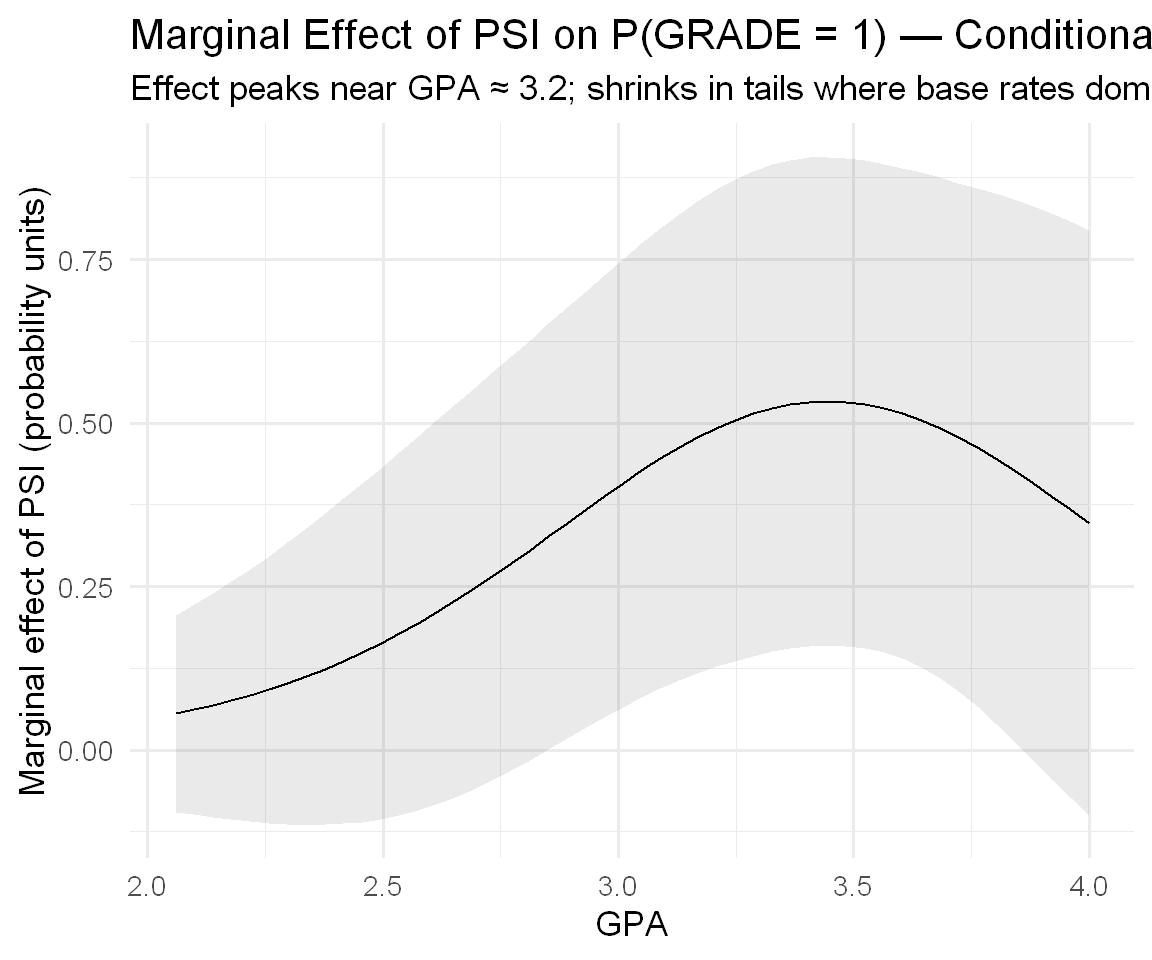
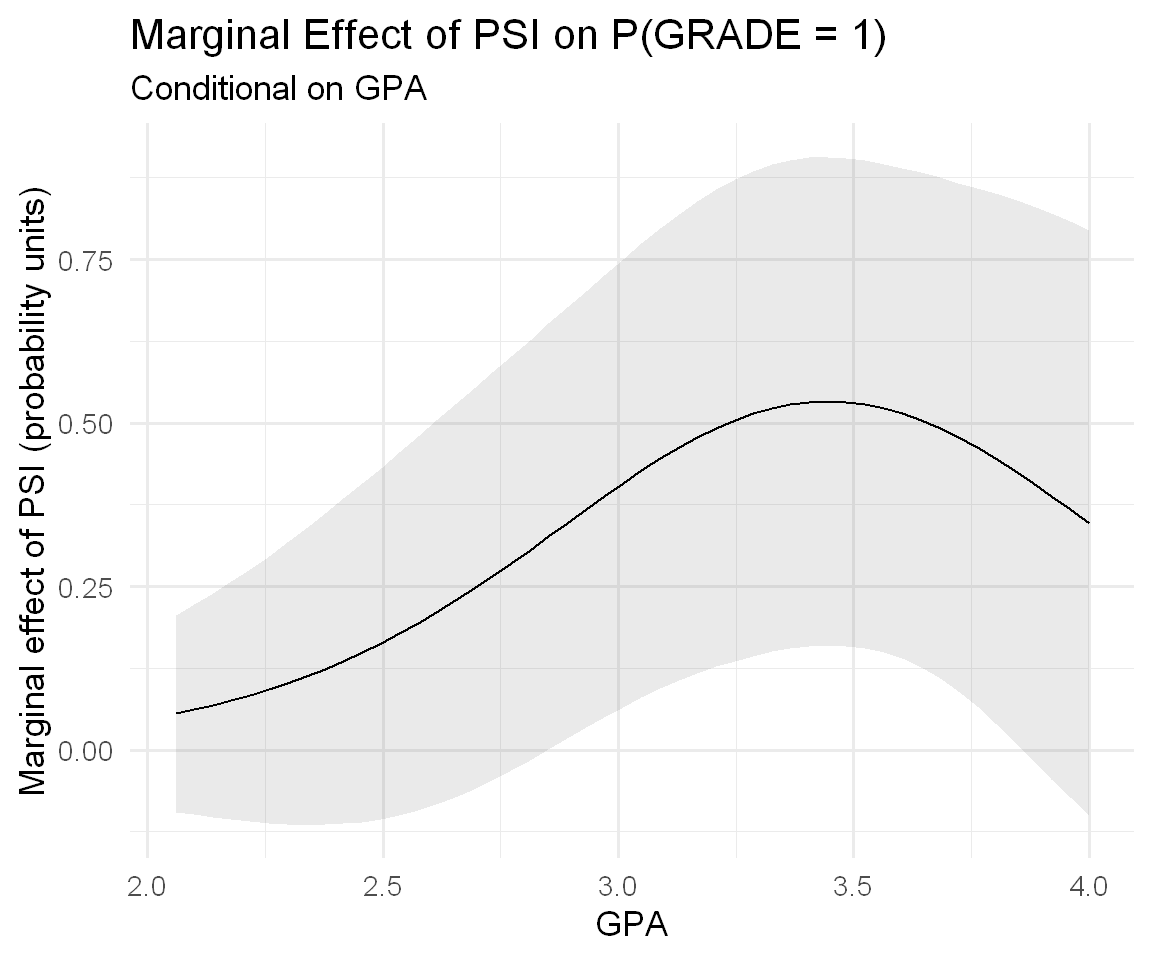
a

Changed region(s): [[0.4688, 0.0, 1.0, 0.125], [0.125, 0.0625, 0.4688, 0.125]]

diff --git a/NYU_1102/Lecture08/DiscreteChoice.html b/NYU_1102/Lecture08/DiscreteChoice.html
@@ -463,8 +463,8 @@ window.Quarto = {
 
     <script>
 
-      function styleCell_brjj7cfkf87tauzl2x6s(i, j, css_id) {
-          var table = document.getElementById("tinytable_brjj7cfkf87tauzl2x6s");
+      function styleCell_hrk189xdnufeh0znnkez(i, j, css_id) {
+          var table = document.getElementById("tinytable_hrk189xdnufeh0znnkez");
           var cell = table.rows[i]?.cells[j];  // Safe navigation to avoid errors
           if (cell) {
               console.log(`Styling cell at (${i}, ${j}) with class ${css_id}`);
@@ -474,7 +474,7 @@ window.Quarto = {
           }
       }
       function insertSpanRow(i, colspan, content) {
-        var table = document.getElementById('tinytable_brjj7cfkf87tauzl2x6s');
+        var table = document.getElementById('tinytable_hrk189xdnufeh0znnkez');
         var newRow = table.insertRow(i);
         var newCell = newRow.insertCell(0);
         newCell.setAttribute("colspan", colspan);
@@ -482,8 +482,8 @@ window.Quarto = {
         // this may be unsafe, but innerText does not interpret <br>
         newCell.innerHTML = content;
       }
-      function spanCell_brjj7cfkf87tauzl2x6s(i, j, rowspan, colspan) {
-        var table = document.getElementById("tinytable_brjj7cfkf87tauzl2x6s");
+      function spanCell_hrk189xdnufeh0znnkez(i, j, rowspan, colspan) {
+        var table = document.getElementById("tinytable_hrk189xdnufeh0znnkez");
         const targetRow = table.rows[i];
         const targetCell = targetRow.cells[j];
         for (let r = 0; r < rowspan; r++) {
@@ -513,18 +513,18 @@ window.Quarto = {
       window.addEventListener('load', function () {
           var cellsToStyle = [
             // tinytable style arrays after
-          { positions: [ { i: 16, j: 1 },  ], css_id: 'tinytable_css_ww8j5ar0c0c4palkeu3m',}, 
-          { positions: [ { i: 1, j: 1 }, { i: 2, j: 1 }, { i: 3, j: 1 }, { i: 4, j: 1 }, { i: 5, j: 1 }, { i: 6, j: 1 }, { i: 7, j: 1 }, { i: 8, j: 1 }, { i: 9, j: 1 }, { i: 10, j: 1 }, { i: 11, j: 1 }, { i: 12, j: 1 }, { i: 13, j: 1 }, { i: 14, j: 1 }, { i: 15, j: 1 },  ], css_id: 'tinytable_css_95xakwzlcwt0x9gghnq1',}, 
-          { positions: [ { i: 0, j: 1 },  ], css_id: 'tinytable_css_h36z8fgk4s8260jw3r3r',}, 
-          { positions: [ { i: 16, j: 0 },  ], css_id: 'tinytable_css_2hh1ya4nb9zu7c3yoyi9',}, 
-          { positions: [ { i: 1, j: 0 }, { i: 2, j: 0 }, { i: 3, j: 0 }, { i: 4, j: 0 }, { i: 5, j: 0 }, { i: 6, j: 0 }, { i: 7, j: 0 }, { i: 8, j: 0 }, { i: 9, j: 0 }, { i: 10, j: 0 }, { i: 11, j: 0 }, { i: 12, j: 0 }, { i: 13, j: 0 }, { i: 14, j: 0 }, { i: 15, j: 0 },  ], css_id: 'tinytable_css_l2miqfl99dteyil4aypf',}, 
-          { positions: [ { i: 0, j: 0 },  ], css_id: 'tinytable_css_o7uq1ovwodnsn8x1fou8',}, 
+          { positions: [ { i: 16, j: 1 },  ], css_id: 'tinytable_css_tdxrfp8fjroy7tpkelou',}, 
+          { positions: [ { i: 1, j: 1 }, { i: 2, j: 1 }, { i: 3, j: 1 }, { i: 4, j: 1 }, { i: 5, j: 1 }, { i: 6, j: 1 }, { i: 7, j: 1 }, { i: 8, j: 1 }, { i: 9, j: 1 }, { i: 10, j: 1 }, { i: 11, j: 1 }, { i: 12, j: 1 }, { i: 13, j: 1 }, { i: 14, j: 1 }, { i: 15, j: 1 },  ], css_id: 'tinytable_css_o0rkammt9eevkm9bdzy4',}, 
+          { positions: [ { i: 0, j: 1 },  ], css_id: 'tinytable_css_v282uh2j6nz6nrrxe45o',}, 
+          { positions: [ { i: 16, j: 0 },  ], css_id: 'tinytable_css_wnprn5xju4wkwfenkzrv',}, 
+          { positions: [ { i: 1, j: 0 }, { i: 2, j: 0 }, { i: 3, j: 0 }, { i: 4, j: 0 }, { i: 5, j: 0 }, { i: 6, j: 0 }, { i: 7, j: 0 }, { i: 8, j: 0 }, { i: 9, j: 0 }, { i: 10, j: 0 }, { i: 11, j: 0 }, { i: 12, j: 0 }, { i: 13, j: 0 }, { i: 14, j: 0 }, { i: 15, j: 0 },  ], css_id: 'tinytable_css_avqwf3v6ibcknqhl23q2',}, 
+          { positions: [ { i: 0, j: 0 },  ], css_id: 'tinytable_css_g583lxpgkvgsx7lj4gqc',}, 
           ];
 
           // Loop over the arrays to style the cells
           cellsToStyle.forEach(function (group) {
               group.positions.forEach(function (cell) {
-                  styleCell_brjj7cfkf87tauzl2x6s(cell.i, cell.j, group.css_id);
+                  styleCell_hrk189xdnufeh0znnkez(cell.i, cell.j, group.css_id);
               });
           });
       });
@@ -532,15 +532,15 @@ window.Quarto = {
 
     <style>
       /* tinytable css entries after */
-      .table td.tinytable_css_ww8j5ar0c0c4palkeu3m, .table th.tinytable_css_ww8j5ar0c0c4palkeu3m { text-align: center; border-bottom: solid #d3d8dc 0.1em; }
-      .table td.tinytable_css_95xakwzlcwt0x9gghnq1, .table th.tinytable_css_95xakwzlcwt0x9gghnq1 { text-align: center; }
-      .table td.tinytable_css_h36z8fgk4s8260jw3r3r, .table th.tinytable_css_h36z8fgk4s8260jw3r3r { text-align: center; border-top: solid #d3d8dc 0.1em; border-bottom: solid #d3d8dc 0.05em; }
-      .table td.tinytable_css_2hh1ya4nb9zu7c3yoyi9, .table th.tinytable_css_2hh1ya4nb9zu7c3yoyi9 { text-align: left; border-bottom: solid #d3d8dc 0.1em; }
-      .table td.tinytable_css_l2miqfl99dteyil4aypf, .table th.tinytable_css_l2miqfl99dteyil4aypf { text-align: left; }
-      .table td.tinytable_css_o7uq1ovwodnsn8x1fou8, .table th.tinytable_css_o7uq1ovwodnsn8x1fou8 { text-align: left; border-top: solid #d3d8dc 0.1em; border-bottom: solid #d3d8dc 0.05em; }
+      .table td.tinytable_css_tdxrfp8fjroy7tpkelou, .table th.tinytable_css_tdxrfp8fjroy7tpkelou { text-align: center; border-bottom: solid #d3d8dc 0.1em; }
+      .table td.tinytable_css_o0rkammt9eevkm9bdzy4, .table th.tinytable_css_o0rkammt9eevkm9bdzy4 { text-align: center; }
+      .table td.tinytable_css_v282uh2j6nz6nrrxe45o, .table th.tinytable_css_v282uh2j6nz6nrrxe45o { text-align: center; border-top: solid #d3d8dc 0.1em; border-bottom: solid #d3d8dc 0.05em; }
+      .table td.tinytable_css_wnprn5xju4wkwfenkzrv, .table th.tinytable_css_wnprn5xju4wkwfenkzrv { text-align: left; border-bottom: solid #d3d8dc 0.1em; }
+      .table td.tinytable_css_avqwf3v6ibcknqhl23q2, .table th.tinytable_css_avqwf3v6ibcknqhl23q2 { text-align: left; }
+      .table td.tinytable_css_g583lxpgkvgsx7lj4gqc, .table th.tinytable_css_g583lxpgkvgsx7lj4gqc { text-align: left; border-top: solid #d3d8dc 0.1em; border-bottom: solid #d3d8dc 0.05em; }
     </style>
     <div class="container">
-      <table class="table table-borderless" id="tinytable_brjj7cfkf87tauzl2x6s" style="width: auto; margin-left: auto; margin-right: auto;" data-quarto-disable-processing="true">
+      <table class="table table-borderless" id="tinytable_hrk189xdnufeh0znnkez" style="width: auto; margin-left: auto; margin-right: auto;" data-quarto-disable-processing="true">
         <thead>
         </thead><caption>Logit — Log-Odds Scale</caption>
               <tbody><tr>
@@ -634,8 +634,8 @@ window.Quarto = {
 
     <script>
 
-      function styleCell_8wjs8tr7nt1ox3gjsj7p(i, j, css_id) {
-          var table = document.getElementById("tinytable_8wjs8tr7nt1ox3gjsj7p");
+      function styleCell_06bxclx7dimv0mp4ukno(i, j, css_id) {
+          var table = document.getElementById("tinytable_06bxclx7dimv0mp4ukno");
           var cell = table.rows[i]?.cells[j];  // Safe navigation to avoid errors
           if (cell) {
               console.log(`Styling cell at (${i}, ${j}) with class ${css_id}`);
@@ -645,7 +645,7 @@ window.Quarto = {
           }
       }
       function insertSpanRow(i, colspan, content) {
-        var table = document.getElementById('tinytable_8wjs8tr7nt1ox3gjsj7p');
+        var table = document.getElementById('tinytable_06bxclx7dimv0mp4ukno');
         var newRow = table.insertRow(i);
         var newCell = newRow.insertCell(0);
         newCell.setAttribute("colspan", colspan);
@@ -653,8 +653,8 @@ window.Quarto = {
         // this may be unsafe, but innerText does not interpret <br>
         newCell.innerHTML = content;
       }
-      function spanCell_8wjs8tr7nt1ox3gjsj7p(i, j, rowspan, colspan) {
-        var table = document.getElementById("tinytable_8wjs8tr7nt1ox3gjsj7p");
+      function spanCell_06bxclx7dimv0mp4ukno(i, j, rowspan, colspan) {
+        var table = document.getElementById("tinytable_06bxclx7dimv0mp4ukno");
         const targetRow = table.rows[i];
         const targetCell = targetRow.cells[j];
         for (let r = 0; r < rowspan; r++) {
@@ -684,18 +684,18 @@ window.Quarto = {
       window.addEventListener('load', function () {
           var cellsToStyle = [
             // tinytable style arrays after
-          { positions: [ { i: 16, j: 1 },  ], css_id: 'tinytable_css_gqa4ph3krl0qboshlij4',}, 
-          { positions: [ { i: 1, j: 1 }, { i: 2, j: 1 }, { i: 3, j: 1 }, { i: 4, j: 1 }, { i: 5, j: 1 }, { i: 6, j: 1 }, { i: 7, j: 1 }, { i: 8, j: 1 }, { i: 9, j: 1 }, { i: 10, j: 1 }, { i: 11, j: 1 }, { i: 12, j: 1 }, { i: 13, j: 1 }, { i: 14, j: 1 }, { i: 15, j: 1 },  ], css_id: 'tinytable_css_bwpoojatin0lau69o033',}, 
-          { positions: [ { i: 0, j: 1 },  ], css_id: 'tinytable_css_k3bmc2xmz0ywwuux9f61',}, 
-          { positions: [ { i: 16, j: 0 },  ], css_id: 'tinytable_css_q07ld0yfxcqy5o7g6jmz',}, 
-          { positions: [ { i: 1, j: 0 }, { i: 2, j: 0 }, { i: 3, j: 0 }, { i: 4, j: 0 }, { i: 5, j: 0 }, { i: 6, j: 0 }, { i: 7, j: 0 }, { i: 8, j: 0 }, { i: 9, j: 0 }, { i: 10, j: 0 }, { i: 11, j: 0 }, { i: 12, j: 0 }, { i: 13, j: 0 }, { i: 14, j: 0 }, { i: 15, j: 0 },  ], css_id: 'tinytable_css_kcntpq3qohbnlxp9atd1',}, 
-          { positions: [ { i: 0, j: 0 },  ], css_id: 'tinytable_css_pp4k28cn4y1gyl6m05qb',}, 
+          { positions: [ { i: 16, j: 1 },  ], css_id: 'tinytable_css_u232my9baupsnw2ps2et',}, 
+          { positions: [ { i: 1, j: 1 }, { i: 2, j: 1 }, { i: 3, j: 1 }, { i: 4, j: 1 }, { i: 5, j: 1 }, { i: 6, j: 1 }, { i: 7, j: 1 }, { i: 8, j: 1 }, { i: 9, j: 1 }, { i: 10, j: 1 }, { i: 11, j: 1 }, { i: 12, j: 1 }, { i: 13, j: 1 }, { i: 14, j: 1 }, { i: 15, j: 1 },  ], css_id: 'tinytable_css_n051lpkww2ysy00ai0oh',}, 
+          { positions: [ { i: 0, j: 1 },  ], css_id: 'tinytable_css_fs13is40t6pplpdvv65l',}, 
+          { positions: [ { i: 16, j: 0 },  ], css_id: 'tinytable_css_wbbrz78u2591f32c309x',}, 
+          { positions: [ { i: 1, j: 0 }, { i: 2, j: 0 }, { i: 3, j: 0 }, { i: 4, j: 0 }, { i: 5, j: 0 }, { i: 6, j: 0 }, { i: 7, j: 0 }, { i: 8, j: 0 }, { i: 9, j: 0 }, { i: 10, j: 0 }, { i: 11, j: 0 }, { i: 12, j: 0 }, { i: 13, j: 0 }, { i: 14, j: 0 }, { i: 15, j: 0 },  ], css_id: 'tinytable_css_y8kaxgh16vbd67e4u7c2',}, 
+          { positions: [ { i: 0, j: 0 },  ], css_id: 'tinytable_css_5j0zrbwnup8fe8ukgjqc',}, 
           ];
 
           // Loop over the arrays to style the cells
           cellsToStyle.forEach(function (group) {
               group.positions.forEach(function (cell) {
-                  styleCell_8wjs8tr7nt1ox3gjsj7p(cell.i, cell.j, group.css_id);
+                  styleCell_06bxclx7dimv0mp4ukno(cell.i, cell.j, group.css_id);
               });
           });
       });
@@ -703,15 +703,15 @@ window.Quarto = {
 
     <style>
       /* tinytable css entries after */
-      .table td.tinytable_css_gqa4ph3krl0qboshlij4, .table th.tinytable_css_gqa4ph3krl0qboshlij4 { text-align: center; border-bottom: solid #d3d8dc 0.1em; }
-      .table td.tinytable_css_bwpoojatin0lau69o033, .table th.tinytable_css_bwpoojatin0lau69o033 { text-align: center; }
-      .table td.tinytable_css_k3bmc2xmz0ywwuux9f61, .table th.tinytable_css_k3bmc2xmz0ywwuux9f61 { text-align: center; border-top: solid #d3d8dc 0.1em; border-bottom: solid #d3d8dc 0.05em; }
-      .table td.tinytable_css_q07ld0yfxcqy5o7g6jmz, .table th.tinytable_css_q07ld0yfxcqy5o7g6jmz { text-align: left; border-bottom: solid #d3d8dc 0.1em; }
-      .table td.tinytable_css_kcntpq3qohbnlxp9atd1, .table th.tinytable_css_kcntpq3qohbnlxp9atd1 { text-align: left; }
-      .table td.tinytable_css_pp4k28cn4y1gyl6m05qb, .table th.tinytable_css_pp4k28cn4y1gyl6m05qb { text-align: left; border-top: solid #d3d8dc 0.1em; border-bottom: solid #d3d8dc 0.05em; }
+      .table td.tinytable_css_u232my9baupsnw2ps2et, .table th.tinytable_css_u232my9baupsnw2ps2et { text-align: center; border-bottom: solid #d3d8dc 0.1em; }
+      .table td.tinytable_css_n051lpkww2ysy00ai0oh, .table th.tinytable_css_n051lpkww2ysy00ai0oh { text-align: center; }
+      .table td.tinytable_css_fs13is40t6pplpdvv65l, .table th.tinytable_css_fs13is40t6pplpdvv65l { text-align: center; border-top: solid #d3d8dc 0.1em; border-bottom: solid #d3d8dc 0.05em; }
+      .table td.tinytable_css_wbbrz78u2591f32c309x, .table th.tinytable_css_wbbrz78u2591f32c309x { text-align: left; border-bottom: solid #d3d8dc 0.1em; }
+      .table td.tinytable_css_y8kaxgh16vbd67e4u7c2, .table th.tinytable_css_y8kaxgh16vbd67e4u7c2 { text-align: left; }
+      .table td.tinytable_css_5j0zrbwnup8fe8ukgjqc, .table th.tinytable_css_5j0zrbwnup8fe8ukgjqc { text-align: left; border-top: solid #d3d8dc 0.1em; border-bottom: solid #d3d8dc 0.05em; }
     </style>
     <div class="container">
-      <table class="table table-borderless" id="tinytable_8wjs8tr7nt1ox3gjsj7p" style="width: auto; margin-left: auto; margin-right: auto;" data-quarto-disable-processing="true">
+      <table class="table table-borderless" id="tinytable_06bxclx7dimv0mp4ukno" style="width: auto; margin-left: auto; margin-right: auto;" data-quarto-disable-processing="true">
         <thead>
         </thead><caption>Logit — Odds Scale (Exponentiated Coefficients)</caption>
               <tbody><tr>
@@ -1010,14 +1010,14 @@ window.Quarto = {
 <div class="cell-output cell-output-stdout">
 <pre><code>Grade improvement rate: 0.344 </code></pre>
 </div>
-<div class="sourceCode cell-code" id="cb32"><pre class="sourceCode r code-with-copy"><code class="sourceCode r"><span id="cb32-1"><a href="#cb32-1" aria-hidden="true" tabindex="-1"></a><span class="fu">datasummary_skim</span>(spector[, <span class="fu">c</span>(<span class="st">"GPA"</span>, <span class="st">"TUCE"</span>, <span class="st">"GRADE"</span>)], <span class="at">output =</span> <span class="st">"default"</span>)</span></code><button title="Copy to Clipboard" class="code-copy-button"><i class="bi"></i></button></pre></div>
+<div class="sourceCode cell-code" id="cb32"><pre class="sourceCode r code-with-copy"><code class="sourceCode r"><span id="cb32-1"><a href="#cb32-1" aria-hidden="true" tabindex="-1"></a><span class="fu">datasummary_skim</span>(spector[, <span class="fu">c</span>(<span class="st">"PSI"</span>,<span class="st">"GPA"</span>, <span class="st">"TUCE"</span>, <span class="st">"GRADE"</span>)], <span class="at">output =</span> <span class="st">"default"</span>)</span></code><button title="Copy to Clipboard" class="code-copy-button"><i class="bi"></i></button></pre></div>
 <div class="cell-output-display">
 <!-- preamble start -->
 
     <script>
 
-      function styleCell_lcc9sv99gfw24aqo79jr(i, j, css_id) {
-          var table = document.getElementById("tinytable_lcc9sv99gfw24aqo79jr");
+      function styleCell_b5rbt5q9ibiyy4igpkxd(i, j, css_id) {
+          var table = document.getElementById("tinytable_b5rbt5q9ibiyy4igpkxd");
           var cell = table.rows[i]?.cells[j];  // Safe navigation to avoid errors
           if (cell) {
               console.log(`Styling cell at (${i}, ${j}) with class ${css_id}`);
@@ -1027,7 +1027,7 @@ window.Quarto = {
           }
       }
       function insertSpanRow(i, colspan, content) {
-        var table = document.getElementById('tinytable_lcc9sv99gfw24aqo79jr');
+        var table = document.getElementById('tinytable_b5rbt5q9ibiyy4igpkxd');
         var newRow = table.insertRow(i);
         var newCell = newRow.insertCell(0);
         newCell.setAttribute("colspan", colspan);
@@ -1035,8 +1035,8 @@ window.Quarto = {
         // this may be unsafe, but innerText does not interpret <br>
         newCell.innerHTML = content;
       }
-      function spanCell_lcc9sv99gfw24aqo79jr(i, j, rowspan, colspan) {
-        var table = document.getElementById("tinytable_lcc9sv99gfw24aqo79jr");
+      function spanCell_b5rbt5q9ibiyy4igpkxd(i, j, rowspan, colspan) {
+        var table = document.getElementById("tinytable_b5rbt5q9ibiyy4igpkxd");
         const targetRow = table.rows[i];
         const targetCell = targetRow.cells[j];
         for (let r = 0; r < rowspan; r++) {
@@ -1066,15 +1066,15 @@ window.Quarto = {
       window.addEventListener('load', function () {
           var cellsToStyle = [
             // tinytable style arrays after
-          { positions: [ { i: 3, j: 5 }, { i: 3, j: 2 }, { i: 3, j: 6 }, { i: 3, j: 3 }, { i: 3, j: 0 }, { i: 3, j: 7 }, { i: 3, j: 4 }, { i: 3, j: 1 }, { i: 3, j: 8 },  ], css_id: 'tinytable_css_6wqobq7jth1gif9gwsdp',}, 
-          { positions: [ { i: 1, j: 0 }, { i: 1, j: 1 }, { i: 1, j: 2 }, { i: 2, j: 2 }, { i: 1, j: 3 }, { i: 2, j: 3 }, { i: 2, j: 0 }, { i: 1, j: 7 }, { i: 1, j: 4 }, { i: 2, j: 4 }, { i: 2, j: 1 }, { i: 1, j: 8 }, { i: 1, j: 5 }, { i: 2, j: 5 }, { i: 1, j: 6 }, { i: 2, j: 6 }, { i: 2, j: 7 }, { i: 2, j: 8 },  ], css_id: 'tinytable_css_aj1riztmlybste5g7nfa',}, 
-          { positions: [ { i: 0, j: 0 }, { i: 0, j: 7 }, { i: 0, j: 4 }, { i: 0, j: 1 }, { i: 0, j: 8 }, { i: 0, j: 5 }, { i: 0, j: 2 }, { i: 0, j: 6 }, { i: 0, j: 3 },  ], css_id: 'tinytable_css_chl47w6otc9ot76r0z24',}, 
+          { positions: [ { i: 6, j: 0 }, { i: 6, j: 3 }, { i: 6, j: 2 }, { i: 6, j: 1 }, { i: 6, j: 4 }, { i: 6, j: 7 }, { i: 6, j: 6 }, { i: 6, j: 5 }, { i: 6, j: 8 },  ], css_id: 'tinytable_css_sb7qnn1989k675n44cg4',}, 
+          { positions: [ { i: 4, j: 0 }, { i: 4, j: 3 }, { i: 4, j: 2 }, { i: 4, j: 1 }, { i: 4, j: 4 }, { i: 4, j: 7 }, { i: 4, j: 6 }, { i: 4, j: 5 }, { i: 4, j: 8 },  ], css_id: 'tinytable_css_1x9oi0bp7pdgthz2h6u4',}, 
+          { positions: [ { i: 0, j: 0 }, { i: 0, j: 3 }, { i: 0, j: 2 }, { i: 0, j: 1 }, { i: 0, j: 4 }, { i: 0, j: 7 }, { i: 0, j: 6 }, { i: 0, j: 5 }, { i: 0, j: 8 },  ], css_id: 'tinytable_css_bt0ccdu3g2bxv0ej69f0',}, 
           ];
 
           // Loop over the arrays to style the cells
           cellsToStyle.forEach(function (group) {
               group.positions.forEach(function (cell) {
-                  styleCell_lcc9sv99gfw24aqo79jr(cell.i, cell.j, group.css_id);
+                  styleCell_b5rbt5q9ibiyy4igpkxd(cell.i, cell.j, group.css_id);
               });
           });
       });
@@ -1082,12 +1082,12 @@ window.Quarto = {
 
     <style>
       /* tinytable css entries after */
-      .table td.tinytable_css_6wqobq7jth1gif9gwsdp, .table th.tinytable_css_6wqobq7jth1gif9gwsdp { text-align: left; border-bottom: solid #d3d8dc 0.1em; }
-      .table td.tinytable_css_aj1riztmlybste5g7nfa, .table th.tinytable_css_aj1riztmlybste5g7nfa { text-align: left; }
-      .table td.tinytable_css_chl47w6otc9ot76r0z24, .table th.tinytable_css_chl47w6otc9ot76r0z24 { text-align: left; border-top: solid #d3d8dc 0.1em; border-bottom: solid #d3d8dc 0.05em; }
+      .table td.tinytable_css_sb7qnn1989k675n44cg4, .table th.tinytable_css_sb7qnn1989k675n44cg4 { border-bottom: solid #d3d8dc 0.1em; }
+      .table td.tinytable_css_1x9oi0bp7pdgthz2h6u4, .table th.tinytable_css_1x9oi0bp7pdgthz2h6u4 { border-top: solid black 0.1em; }
+      .table td.tinytable_css_bt0ccdu3g2bxv0ej69f0, .table th.tinytable_css_bt0ccdu3g2bxv0ej69f0 { border-top: solid #d3d8dc 0.1em; border-bottom: solid #d3d8dc 0.05em; }
     </style>
     <div class="container">
-      <table class="table table-borderless" id="tinytable_lcc9sv99gfw24aqo79jr" style="width: auto; margin-left: auto; margin-right: auto;" data-quarto-disable-processing="true">
+      <table class="table table-borderless" id="tinytable_b5rbt5q9ibiyy4igpkxd" style="width: auto; margin-left: auto; margin-right: auto;" data-quarto-disable-processing="true">
         <thead>
         
               <tr>
@@ -1113,7 +1113,7 @@ window.Quarto = {
                   <td>2.1</td>
                   <td>3.1</td>
                   <td>4.0</td>
-                  <td><img src="./tinytable_assets/id4917qbwy904ikecoqm52.png" style="height: 1em;"></td>
+                  <td><img src="./tinytable_assets/id45unowf7mq64bitovocp.png" style="height: 1em;"></td>
                 </tr>
                 <tr>
                   <td>TUCE</td>
@@ -1124,7 +1124,7 @@ window.Quarto = {
                   <td>12.0</td>
                   <td>22.5</td>
                   <td>29.0</td>
-                  <td><img src="./tinytable_assets/id5zjob55a610seaholxiw.png" style="height: 1em;"></td>
+                  <td><img src="./tinytable_assets/idhwl9de6tt66r3qqq5e41.png" style="height: 1em;"></td>
                 </tr>
                 <tr>
                   <td>GRADE</td>
@@ -1135,7 +1135,40 @@ window.Quarto = {
                   <td>0.0</td>
                   <td>0.0</td>
                   <td>1.0</td>
-                  <td><img src="./tinytable_assets/idodws947v19ehwtb2452q.png" style="height: 1em;"></td>
+                  <td><img src="./tinytable_assets/idd65qaint136zzzf3upol.png" style="height: 1em;"></td>
+                </tr>
+                <tr>
+                  <td>PSI</td>
+                  <td>N</td>
+                  <td>%</td>
+                  <td></td>
+                  <td></td>
+                  <td></td>
+                  <td></td>
+                  <td></td>
+                  <td></td>
+                </tr>
+                <tr>
+                  <td>0</td>
+                  <td>18</td>
+                  <td>56.2</td>
+                  <td></td>
+                  <td></td>
+                  <td></td>
+                  <td></td>
+                  <td></td>
+                  <td></td>
+                </tr>
+                <tr>
+                  <td>1</td>
+                  <td>14</td>
+                  <td>43.8</td>
+                  <td></td>
+                  <td></td>
+                  <td></td>
+                  <td></td>
+                  <td></td>
+                  <td></td>
                 </tr>
         </tbody>
       </table>
@@ -1162,8 +1195,8 @@ window.Quarto = {
 
     <script>
 
-      function styleCell_nszpxh24gg2ol3t0xrdy(i, j, css_id) {
-          var table = document.getElementById("tinytable_nszpxh24gg2ol3t0xrdy");
+      function styleCell_jvc37zfs1tv3vxgdyz6j(i, j, css_id) {
+          var table = document.getElementById("tinytable_jvc37zfs1tv3vxgdyz6j");
           var cell = table.rows[i]?.cells[j];  // Safe navigation to avoid errors
           if (cell) {
               console.log(`Styling cell at (${i}, ${j}) with class ${css_id}`);
@@ -1173,7 +1206,7 @@ window.Quarto = {
           }
       }
       function insertSpanRow(i, colspan, content) {
-        var table = document.getElementById('tinytable_nszpxh24gg2ol3t0xrdy');
+        var table = document.getElementById('tinytable_jvc37zfs1tv3vxgdyz6j');
         var newRow = table.insertRow(i);
         var newCell = newRow.insertCell(0);
         newCell.setAttribute("colspan", colspan);
@@ -1181,8 +1214,8 @@ window.Quarto = {
         // this may be unsafe, but innerText does not interpret <br>
         newCell.innerHTML = content;
       }
-      function spanCell_nszpxh24gg2ol3t0xrdy(i, j, rowspan, colspan) {
-        var table = document.getElementById("tinytable_nszpxh24gg2ol3t0xrdy");
+      function spanCell_jvc37zfs1tv3vxgdyz6j(i, j, rowspan, colspan) {
+        var table = document.getElementById("tinytable_jvc37zfs1tv3vxgdyz6j");
         const targetRow = table.rows[i];
         const targetCell = targetRow.cells[j];
         for (let r = 0; r < rowspan; r++) {
@@ -1212,18 +1245,18 @@ window.Quarto = {
       window.addEventListener('load', function () {
           var cellsToStyle = [
             // tinytable style arrays after
-          { positions: [ { i: 8, j: 2 }, { i: 8, j: 1 }, { i: 8, j: 3 },  ], css_id: 'tinytable_css_yx4h4gbofeldsx1n9xj3',}, 
-          { positions: [ { i: 2, j: 1 }, { i: 3, j: 1 }, { i: 4, j: 1 }, { i: 6, j: 1 }, { i: 7, j: 1 }, { i: 3, j: 3 }, { i: 1, j: 1 }, { i: 1, j: 2 }, { i: 2, j: 2 }, { i: 3, j: 2 }, { i: 4, j: 2 }, { i: 5, j: 2 }, { i: 6, j: 2 }, { i: 7, j: 2 }, { i: 7, j: 3 }, { i: 5, j: 1 }, { i: 1, j: 3 }, { i: 2, j: 3 }, { i: 4, j: 3 }, { i: 5, j: 3 }, { i: 6, j: 3 },  ], css_id: 'tinytable_css_crwrh6zx4b6itvr3g9gv',}, 
-          { positions: [ { i: 0, j: 1 }, { i: 0, j: 3 }, { i: 0, j: 2 },  ], css_id: 'tinytable_css_u68js2uyj8qds4qykdxz',}, 
-          { positions: [ { i: 8, j: 0 },  ], css_id: 'tinytable_css_hgyu9uhwv683yxi3uiqc',}, 
-          { positions: [ { i: 1, j: 0 }, { i: 2, j: 0 }, { i: 3, j: 0 }, { i: 4, j: 0 }, { i: 5, j: 0 }, { i: 6, j: 0 }, { i: 7, j: 0 },  ], css_id: 'tinytable_css_u00c42ufwqm36ekgbqj0',}, 
-          { positions: [ { i: 0, j: 0 },  ], css_id: 'tinytable_css_q0bhg39tj3jg78c3ol5f',}, 
+          { positions: [ { i: 8, j: 2 }, { i: 8, j: 1 }, { i: 8, j: 3 },  ], css_id: 'tinytable_css_fwqyliak0syncyyuw1dk',}, 
+          { positions: [ { i: 2, j: 1 }, { i: 3, j: 1 }, { i: 4, j: 1 }, { i: 6, j: 1 }, { i: 7, j: 1 }, { i: 3, j: 3 }, { i: 1, j: 1 }, { i: 1, j: 2 }, { i: 2, j: 2 }, { i: 3, j: 2 }, { i: 4, j: 2 }, { i: 5, j: 2 }, { i: 6, j: 2 }, { i: 7, j: 2 }, { i: 7, j: 3 }, { i: 5, j: 1 }, { i: 1, j: 3 }, { i: 2, j: 3 }, { i: 4, j: 3 }, { i: 5, j: 3 }, { i: 6, j: 3 },  ], css_id: 'tinytable_css_9ch13tdf1m9xpthx6uu7',}, 
+          { positions: [ { i: 0, j: 1 }, { i: 0, j: 3 }, { i: 0, j: 2 },  ], css_id: 'tinytable_css_uq9wxt61cx0ynr93w5rp',}, 
+          { positions: [ { i: 8, j: 0 },  ], css_id: 'tinytable_css_na0o1oknxwriat4ovhsw',}, 
+          { positions: [ { i: 1, j: 0 }, { i: 2, j: 0 }, { i: 3, j: 0 }, { i: 4, j: 0 }, { i: 5, j: 0 }, { i: 6, j: 0 }, { i: 7, j: 0 },  ], css_id: 'tinytable_css_zwuyvufbi4w6l1vf6xph',}, 
+          { positions: [ { i: 0, j: 0 },  ], css_id: 'tinytable_css_xwf6g4w2la6kjyltc3yn',}, 
           ];
 
           // Loop over the arrays to style the cells
           cellsToStyle.forEach(function (group) {
               group.positions.forEach(function (cell) {
-                  styleCell_nszpxh24gg2ol3t0xrdy(cell.i, cell.j, group.css_id);
+                  styleCell_jvc37zfs1tv3vxgdyz6j(cell.i, cell.j, group.css_id);
               });
           });
       });
@@ -1231,15 +1264,15 @@ window.Quarto = {
 
     <style>
       /* tinytable css entries after */
-      .table td.tinytable_css_yx4h4gbofeldsx1n9xj3, .table th.tinytable_css_yx4h4gbofeldsx1n9xj3 { text-align: center; border-bottom: solid #d3d8dc 0.1em; }
-      .table td.tinytable_css_crwrh6zx4b6itvr3g9gv, .table th.tinytable_css_crwrh6zx4b6itvr3g9gv { text-align: center; }
-      .table td.tinytable_css_u68js2uyj8qds4qykdxz, .table th.tinytable_css_u68js2uyj8qds4qykdxz { text-align: center; border-top: solid #d3d8dc 0.1em; border-bottom: solid #d3d8dc 0.05em; }
-      .table td.tinytable_css_hgyu9uhwv683yxi3uiqc, .table th.tinytable_css_hgyu9uhwv683yxi3uiqc { text-align: left; border-bottom: solid #d3d8dc 0.1em; }
-      .table td.tinytable_css_u00c42ufwqm36ekgbqj0, .table th.tinytable_css_u00c42ufwqm36ekgbqj0 { text-align: left; }
-      .table td.tinytable_css_q0bhg39tj3jg78c3ol5f, .table th.tinytable_css_q0bhg39tj3jg78c3ol5f { text-align: left; border-top: solid #d3d8dc 0.1em; border-bottom: solid #d3d8dc 0.05em; }
+      .table td.tinytable_css_fwqyliak0syncyyuw1dk, .table th.tinytable_css_fwqyliak0syncyyuw1dk { text-align: center; border-bottom: solid #d3d8dc 0.1em; }
+      .table td.tinytable_css_9ch13tdf1m9xpthx6uu7, .table th.tinytable_css_9ch13tdf1m9xpthx6uu7 { text-align: center; }
+      .table td.tinytable_css_uq9wxt61cx0ynr93w5rp, .table th.tinytable_css_uq9wxt61cx0ynr93w5rp { text-align: center; border-top: solid #d3d8dc 0.1em; border-bottom: solid #d3d8dc 0.05em; }
+      .table td.tinytable_css_na0o1oknxwriat4ovhsw, .table th.tinytable_css_na0o1oknxwriat4ovhsw { text-align: left; border-bottom: solid #d3d8dc 0.1em; }
+      .table td.tinytable_css_zwuyvufbi4w6l1vf6xph, .table th.tinytable_css_zwuyvufbi4w6l1vf6xph { text-align: left; }
+      .table td.tinytable_css_xwf6g4w2la6kjyltc3yn, .table th.tinytable_css_xwf6g4w2la6kjyltc3yn { text-align: left; border-top: solid #d3d8dc 0.1em; border-bottom: solid #d3d8dc 0.05em; }
     </style>
     <div class="container">
-      <table class="table table-borderless" id="tinytable_nszpxh24gg2ol3t0xrdy" style="width: auto; margin-left: auto; margin-right: auto;" data-quarto-disable-processing="true">
+      <table class="table table-borderless" id="tinytable_jvc37zfs1tv3vxgdyz6j" style="width: auto; margin-left: auto; margin-right: auto;" data-quarto-disable-processing="true">
         <thead>
         </thead><caption>Spector-Mazzeo (1980) — Grade Improvement Models</caption>
               <tbody><tr>
@@ -1478,8 +1511,8 @@ window.Quarto = {
 <span id="cb44-4"><a href="#cb44-4" aria-hidden="true" tabindex="-1"></a>  <span class="at">condition =</span> <span class="st">"GPA"</span></span>
 <span id="cb44-5"><a href="#cb44-5" aria-hidden="true" tabindex="-1"></a>) <span class="sc">+</span></span>
 <span id="cb44-6"><a href="#cb44-6" aria-hidden="true" tabindex="-1"></a>  <span class="fu">labs</span>(</span>
-<span id="cb44-7"><a href="#cb44-7" aria-hidden="true" tabindex="-1"></a>    <span class="at">title    =</span> <span class="st">"Marginal Effect of PSI on P(GRADE = 1) — Conditional on GPA"</span>,</span>
-<span id="cb44-8"><a href="#cb44-8" aria-hidden="true" tabindex="-1"></a>    <span class="at">subtitle =</span> <span class="st">"Effect peaks near GPA ≈ 3.2; shrinks in tails where base rates dominate"</span>,</span>
+<span id="cb44-7"><a href="#cb44-7" aria-hidden="true" tabindex="-1"></a>    <span class="at">title    =</span> <span class="st">"Marginal Effect of PSI on P(GRADE = 1)"</span>,</span>
+<span id="cb44-8"><a href="#cb44-8" aria-hidden="true" tabindex="-1"></a>    <span class="at">subtitle =</span> <span class="st">"Conditional on GPA"</span>,</span>
 <span id="cb44-9"><a href="#cb44-9" aria-hidden="true" tabindex="-1"></a>    <span class="at">x        =</span> <span class="st">"GPA"</span>,</span>
 <span id="cb44-10"><a href="#cb44-10" aria-hidden="true" tabindex="-1"></a>    <span class="at">y        =</span> <span class="st">"Marginal effect of PSI (probability units)"</span></span>
 <span id="cb44-11"><a href="#cb44-11" aria-hidden="true" tabindex="-1"></a>  ) <span class="sc">+</span></span>
